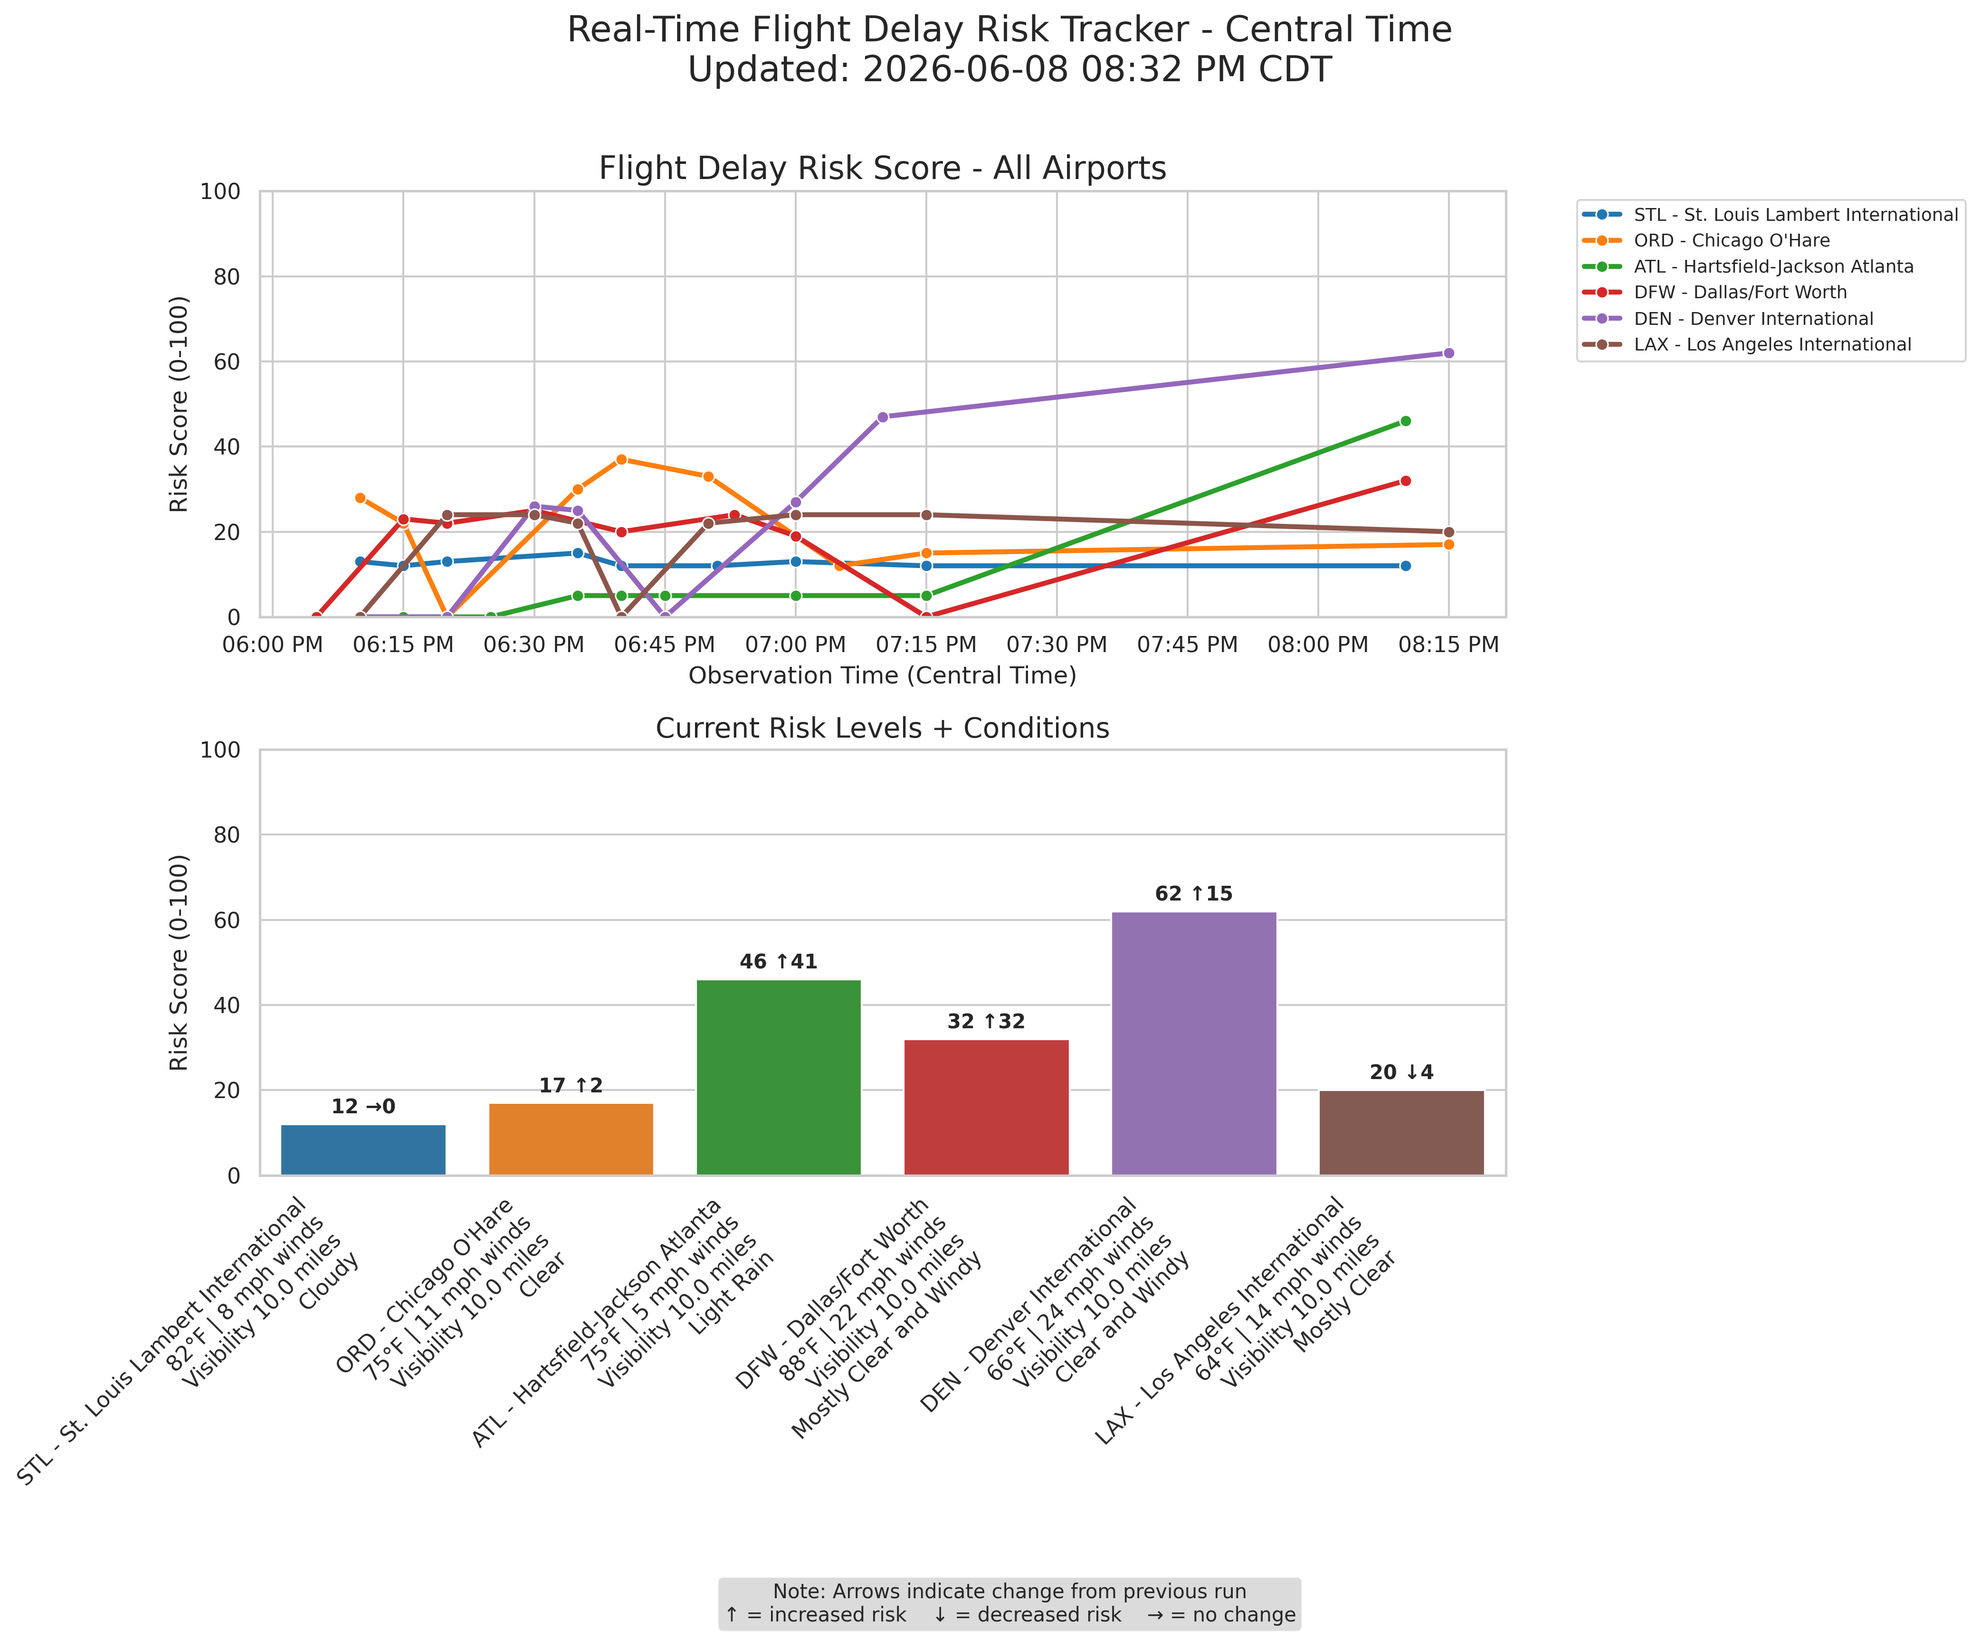
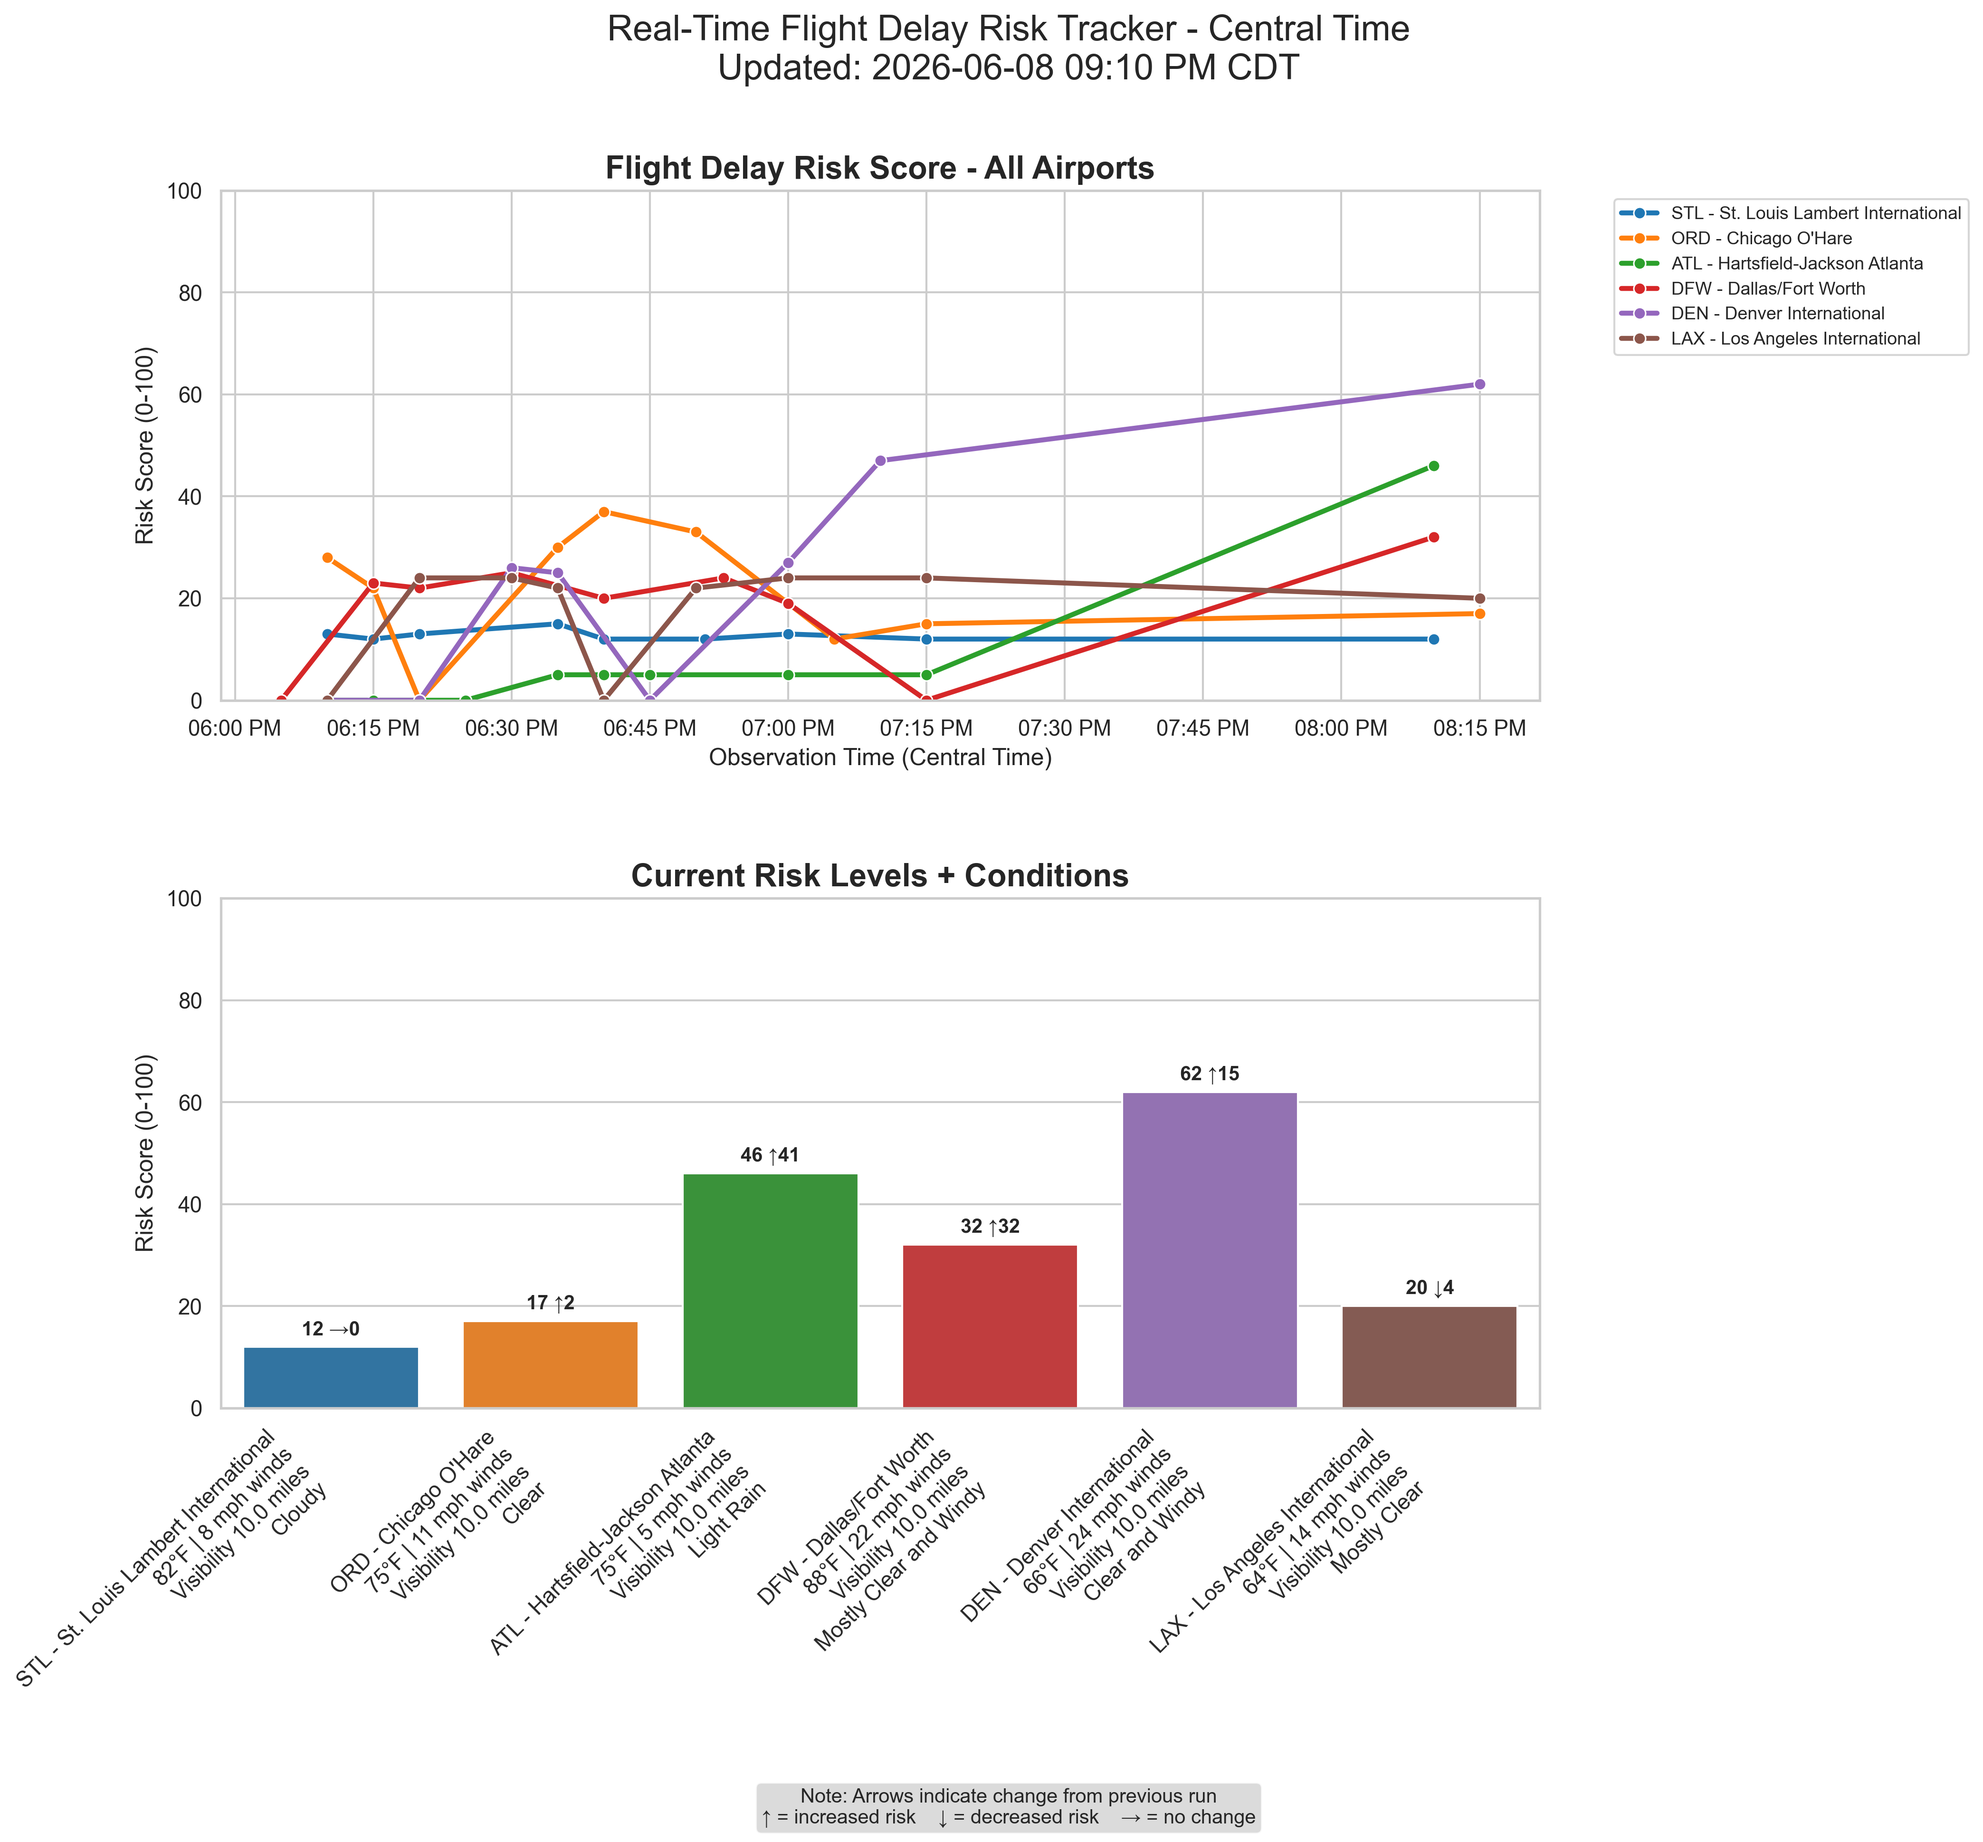
Updated Visulation file for flight-delay-risk-etl

diff --git a/projects/flight-delay-risk-etl/visualize.py b/projects/flight-delay-risk-etl/visualize.py
@@ -33,7 +33,7 @@ def generate_dashboard():
     print("✅ First plotted timestamp:", plot_times.iloc[0])
     
     sns.set_theme(style="whitegrid")
-    fig = plt.figure(figsize=(14, 12))
+    fig = plt.figure(figsize=(14, 13.5))   # Slightly taller for better spacing
     
     # Consistent colors
     color_dict = {code: color for code, color in zip(AIRPORT_INFO.keys(), sns.color_palette("tab10", len(AIRPORT_INFO)))}
@@ -50,7 +50,7 @@ def generate_dashboard():
         sns.lineplot(data=temp_data, x='observation_time', y='risk_score',
                     ax=ax1, marker='o', linewidth=2.5, label=label, color=color_dict[code])
     
-    ax1.set_title("Flight Delay Risk Score - All Airports", fontsize=16)
+    ax1.set_title("Flight Delay Risk Score - All Airports", fontsize=16, fontweight='bold')
     ax1.set_ylabel("Risk Score (0-100)")
     ax1.set_xlabel("Observation Time (Central Time)")
     ax1.legend(bbox_to_anchor=(1.05, 1), loc='upper left', fontsize=9)
@@ -58,14 +58,12 @@ def generate_dashboard():
     ax1.grid(True)
     ax1.xaxis.set_major_formatter(plt.matplotlib.dates.DateFormatter('%I:%M %p', tz=TZ))
     
-    # Bottom: Fixed order bar chart with rich labels
+    # Bottom: Bar Chart
     ax2 = plt.subplot(2, 1, 2)
     
-    # Use fixed order from AIRPORT_INFO (matches legend)
     latest = pd.DataFrame({'airport_code': list(AIRPORT_INFO.keys())})
     latest = latest.merge(df.groupby('airport_code').last().reset_index(), on='airport_code', how='left')
     
-    # Calculate changes
     changes = []
     for code in latest['airport_code']:
         hist = df[df['airport_code'] == code].sort_values('observation_time')
@@ -73,7 +71,6 @@ def generate_dashboard():
         changes.append(change)
     latest['change'] = changes
     
-    # Rich multi-line label
     def make_label(row):
         temp_f = round(row['temperature_c'] * 9/5 + 32) if pd.notna(row['temperature_c']) else '?'
         wind = round(row['wind_mph']) if pd.notna(row['wind_mph']) else '?'
@@ -97,13 +94,13 @@ def generate_dashboard():
         legend=False
     )
     
-    ax2.set_title("Current Risk Levels + Conditions", fontsize=14)
+    ax2.set_title("Current Risk Levels + Conditions", fontsize=16, fontweight='bold')
     ax2.set_ylabel("Risk Score (0-100)")
     ax2.set_xlabel("")
     ax2.set_ylim(0, 100)
-    plt.xticks(rotation=45, ha='right')
+    plt.xticks(rotation=45, ha='right', fontsize=11)
     
-    # Value labels with change arrows
+    # Value labels
     for i, p in enumerate(ax2.patches):
         height = p.get_height() if not pd.isna(p.get_height()) else 0
         change = latest.iloc[i]['change']
@@ -121,7 +118,8 @@ def generate_dashboard():
                  f"Updated: {datetime.now(TZ).strftime('%Y-%m-%d %I:%M %p %Z')}", 
                  fontsize=18, y=0.96)
     
-    plt.tight_layout(rect=[0, 0.05, 1, 0.95])
+    # Increased space between the two charts
+    plt.tight_layout(rect=[0, 0.05, 1, 0.95], h_pad=4.0)
     plt.savefig(IMAGE_OUTPUT, dpi=300, bbox_inches='tight')
     plt.close()
     
